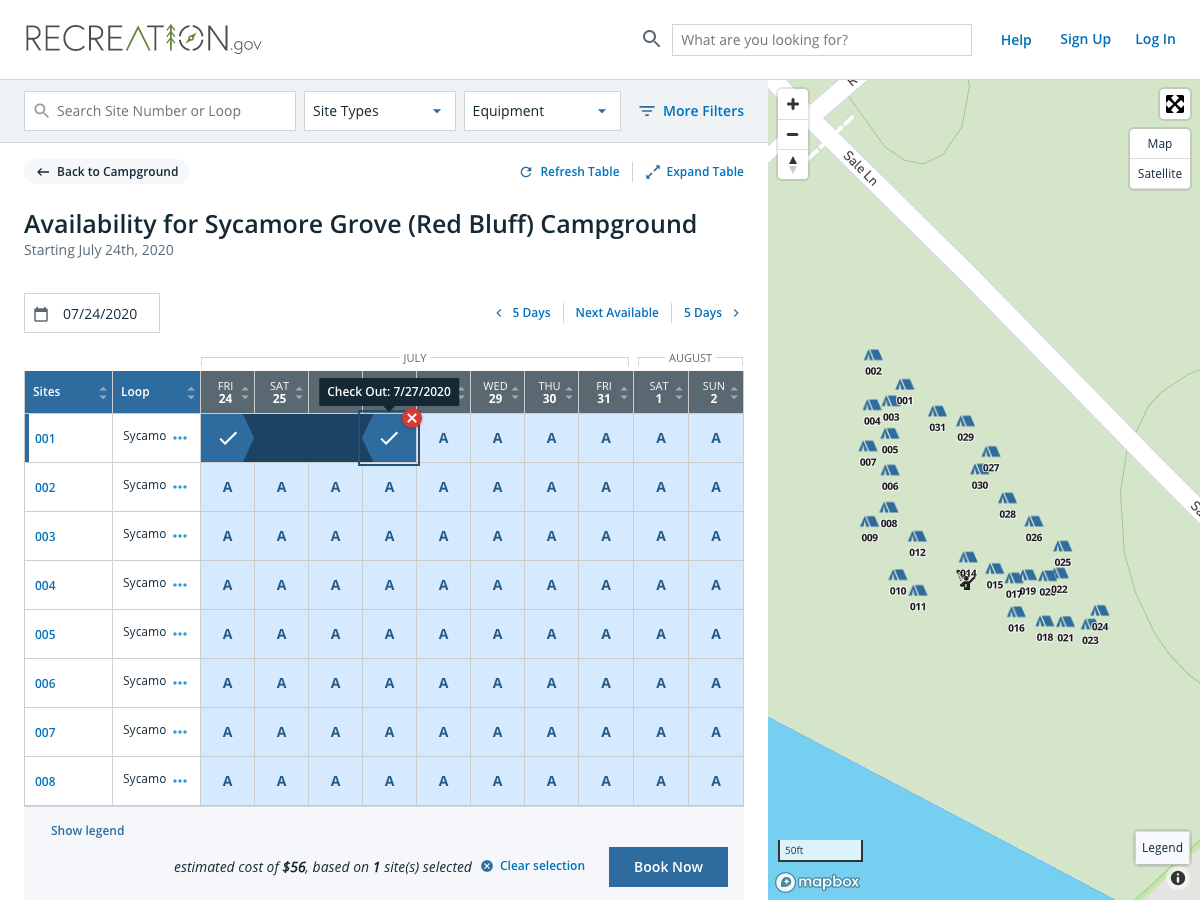
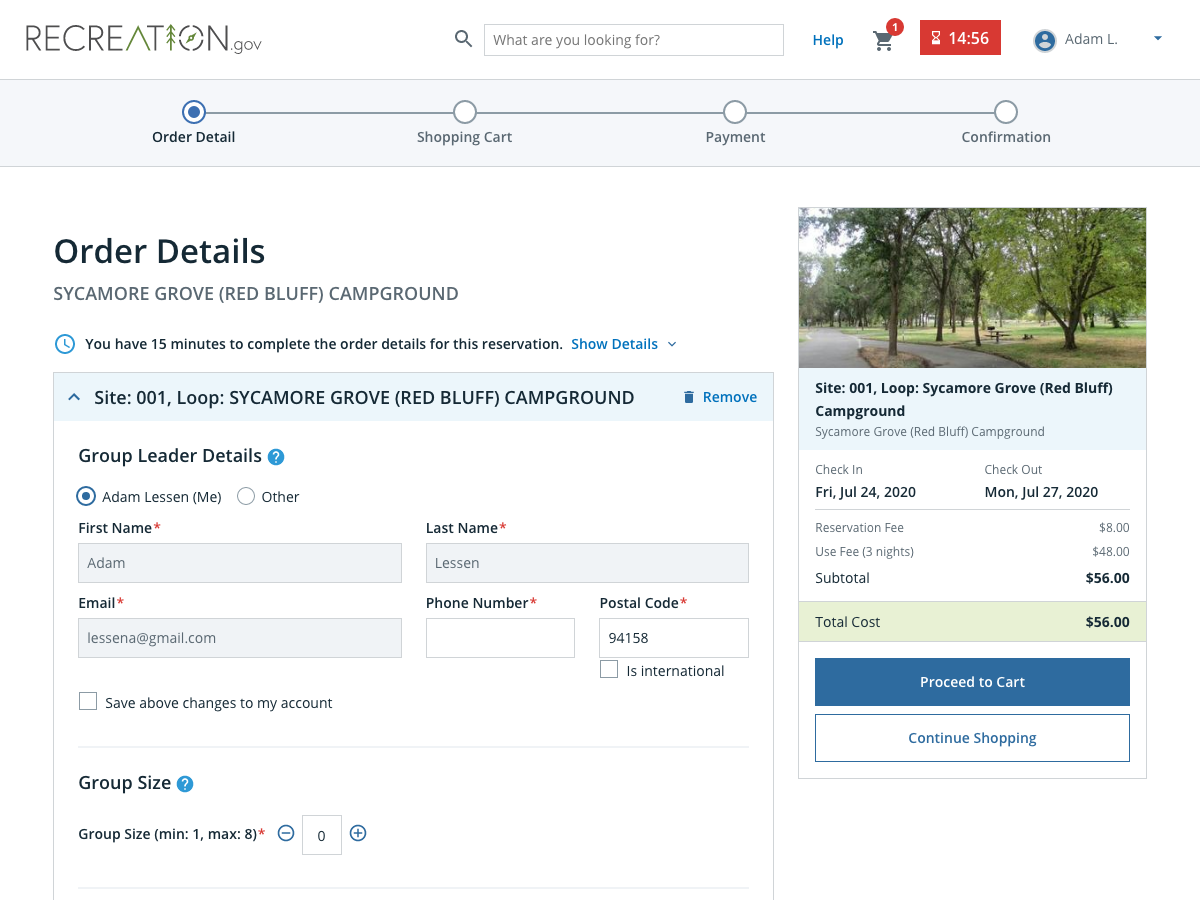
Work with random indexes

diff --git a/park-website.js b/park-website.js
@@ -5,24 +5,56 @@ const timeout = ms => new Promise(resolve => setTimeout(resolve, ms));
 
 const TABLE_ROW_SELECTOR = '#availability-table tbody tr';
 
-// const randomWait = async () => {
-//   const wait = Math.random() * 30 * 1000;
-//   await timeout(wait);
-// };
+const USERNAME = 'lessena@gmail.com';
+const PASS = '3zD!MqC3R3';
+const USERNAME_SELECTOR = '#rec-acct-sign-in-email-address';
+const PASS_SELECTOR = '#rec-acct-sign-in-password';
+const LOGIN_SELECTOR = 'form button';
+const TO_LOGIN_SELECTOR = '.nav-header-button[aria-label="Log In"]';
+const DATE_PICKER_SELECTOR = '#single-date-picker-1';
+const BOOK_NOW_SELECTOR =
+  '.rec-campground-availability-book-now button.sarsa-button-primary';
+const TARGET_DATE = '07/24/2020';
+const ALREADY_BOOKED_BUTTON_SELECTOR =
+  '.booking-modal button[aria-label="Continue Shopping"]';
+
+const randomWait = async () => {
+  const wait = Math.random() * 45 * 1000;
+  await timeout(wait);
+};
 
 const LOWER_PINES = 'https://www.recreation.gov/camping/campgrounds/232450';
 const TEST_CAMPGROUND =
   'https://www.recreation.gov/camping/campgrounds/234633/availability';
 
 const checkParksSite = async ({id, page}) => {
-  console.warn(`Worker ${id} is starting`);
+  const logger = status => console.warn(`Worker ${id} ${status}`);
+  logger('is starting');
+  await randomWait();
   await page.goto(TEST_CAMPGROUND);
 
-  const datePicker = await page.$('#single-date-picker-1');
-  await datePicker.click({clickCount: 3});
-  await datePicker.type('07/24/2020', {delay: 30});
+  // START LOGIN
+  logger('is logging in');
+  await page.click(TO_LOGIN_SELECTOR);
+  await page.type(USERNAME_SELECTOR, USERNAME);
+  await page.type(PASS_SELECTOR, PASS);
+  await page.click(LOGIN_SELECTOR);
 
-  // need to wait
+  // TODO: BETTER WAY TO validate login was successful? Should see name in top right...
+  // await page.waitForFunction(
+  //   selector => document.querySelector(selector),
+  //   {},
+  //   DATE_PICKER_SELECTOR
+  // );
+  await timeout(4000);
+  // FINISH LOGIN
+
+  // FILL IN THE TARGET START DATE
+  const datePicker = await page.$(DATE_PICKER_SELECTOR);
+  await datePicker.click({clickCount: 3});
+  await datePicker.type(TARGET_DATE, {delay: 30});
+
+  // WAIT FOR TABLE TO REFRESH
   await page.waitForFunction(
     selector =>
       document.querySelectorAll(selector) &&
@@ -30,37 +62,62 @@ const checkParksSite = async ({id, page}) => {
     {},
     TABLE_ROW_SELECTOR
   );
-  // await timeout(4000);
 
+  // FIND AN AVAILABLE SITE
   const sites = await page.$$(TABLE_ROW_SELECTOR);
+  const startIndex = Math.floor(Math.random() * sites.length);
+  logger(`starting at site ${startIndex}`);
+  let availableSite;
+  for (
+    let currentIndex = startIndex, i = 0;
+    i < sites.length;
+    i++, currentIndex === sites.length - 1 ? (currentIndex = 0) : currentIndex++
+  ) {
+    // CHECK IF SITE IS
+    const td1 = await (await (await sites[currentIndex].$(
+      'td:nth-child(3)'
+    )).getProperty('className')).jsonValue();
+    const td2 = await (await (await sites[currentIndex].$(
+      'td:nth-child(4)'
+    )).getProperty('className')).jsonValue();
+    const td3 = await (await (await sites[currentIndex].$(
+      'td:nth-child(5)'
+    )).getProperty('className')).jsonValue();
+    const td4 = await (await (await sites[currentIndex].$(
+      'td:nth-child(6)'
+    )).getProperty('className')).jsonValue();
+    const avail = [td1, td2, td3, td4].every(
+      className => className === 'available'
+    );
+    if (avail) {
+      logger(`found available at index ${currentIndex}`);
+      availableSite = sites[currentIndex];
+      // SELECT THE SITE FOR 3 NIGHTS
+      const start = await availableSite.$('td:nth-child(3)');
+      const end = await availableSite.$('td:nth-child(6)');
+      await start.click();
+      await end.click();
 
-  const availableSite = sites.find(async row => {
-    const avail = await row.evaluate(node => {
-      const td1 = node.querySelector('td:nth-child(3)');
-      const td2 = node.querySelector('td:nth-child(4)');
-      const td3 = node.querySelector('td:nth-child(5)');
-      const td4 = node.querySelector('td:nth-child(6)');
-      return [td1, td2, td3, td4].every(cell =>
-        cell.classList.contains('available')
-      );
-    });
-    return avail;
-  });
+      // NEED TO HANDLE ALREADY SELECTED SITE
+      logger('is going to checkout page');
+      await page.click(BOOK_NOW_SELECTOR);
+      await timeout(5000);
+      const alreadyBookedButton = await page.$(ALREADY_BOOKED_BUTTON_SELECTOR);
+      if (!alreadyBookedButton) {
+        await page.screenshot({path: `screenshots/worker_${id}_test.png`});
+        logger('has finished');
+        return;
+      }
 
-  if (!availableSite) {
-    console.warn('no site');
-    await page.screenshot({path: `screenshots/worker_${id}_test.png`});
-    return;
+      alreadyBookedButton.click();
+      // CONTINUE TO SEARCH FOR SITE
+    }
+    logger(`continuing to index ${currentIndex + 1}`);
   }
 
-  const start = await page.$('td:nth-child(3)');
-  const end = await page.$('td:nth-child(6)');
-  await start.click();
-  await end.click();
-
+  // TAKE SOME ACTION IF NOT AVAILABLE
+  console.warn('no site');
   await page.screenshot({path: `screenshots/worker_${id}_test.png`});
-
-  console.warn('Worker has finished', id);
 };
 
 exports.checkParksSite = checkParksSite;

diff --git a/multi-run.js b/multi-run.js
@@ -1,7 +1,7 @@
 /* eslint-disable no-console */
 const puppeteer = require('puppeteer');
 const helper = require('./park-website');
-const WORKERS = 1;
+const WORKERS = 3;
 
 (async () => {
   // const browser = await puppeteer.launch({devtools: true});
@@ -9,7 +9,9 @@ const WORKERS = 1;
 
   const promises = [];
   for (let i = 0; i < WORKERS; i++) {
-    const page = await browser.newPage();
+    const context = await browser.createIncognitoBrowserContext();
+    // Create a new page in a pristine context.
+    const page = await context.newPage();
     await page.setViewport({
       width: 1200,
       height: 900,
